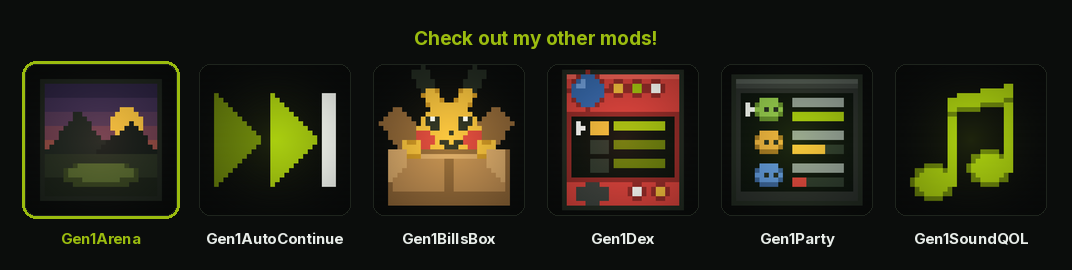
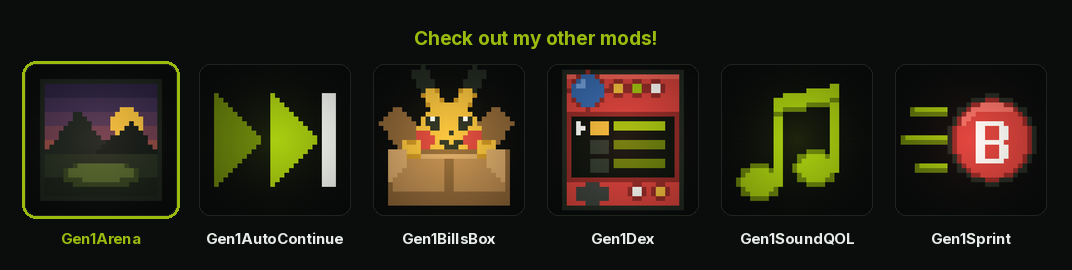
Add Gen1Sprint to the index
Hold B to run at FireRed's running-shoes speed: twice walking, which is
the pace this engine's own BICYCLE already rides at.

The entry, its long-form description.md, a thumbnail and the README row
and lineup strip that go with it.

The icon is the B button with the ground going past it. A running figure
is the obvious drawing and the wrong one -- at 32 pixels a person is six
pixels of leg, and six pixels of leg reads as a smudge however they are
posed. A circle with a letter in it is legible at any size, and it says
the thing the mod actually asks of you. LETTER_B sits next to DIGITS on
the same seven-by-nine metric so the two stay in proportion if they ever
share a picture; the rest of the alphabet would be dead weight.

site/data/index.json is deliberately not in this commit. The feed is
built and committed by .github/workflows/index.yml with a token, and a
rebuild from here answers 403 on every other mod's Releases -- so a
hand-built feed would land with this entry added and twelve mods' real
release data replaced by errors.

Claude-Session: https://claude.ai/code/session_01GSk6gGC43zca2TtZXkUrDf

Changed region(s): [[0.6772, 0.2667, 0.9851, 0.7704], [0.6772, 0.8593, 0.8004, 0.9185], [0.8312, 0.8593, 0.9543, 0.9185]]

diff --git a/tools/make_icons.py b/tools/make_icons.py
@@ -163,6 +163,22 @@ def numerals(art, x, y, text, colour, shadow):
 # set of ten would be nine glyphs of dead weight and one more thing to keep
 # in step with nothing.
 DIGIT_GAP = 2
+
+# The one letter any icon draws, on the same seven-by-nine metric DIGITS uses
+# so the two stay in proportion if they ever share a picture.  A full alphabet
+# would be twenty-five glyphs of dead weight.
+LETTER_B = [
+    "######.",
+    "##...##",
+    "##...##",
+    "##...##",
+    "######.",
+    "##...##",
+    "##...##",
+    "##...##",
+    "######.",
+]
+
 DIGITS = {
     "1": [
         "..####.",
@@ -617,6 +633,39 @@ def gen151():
     return a, PINK
 
 
+def sprint():
+    """The B button, and the ground going past it.
+
+    A running figure is the obvious drawing and the wrong one: at 32 pixels a
+    person is six pixels of leg, and six pixels of leg reads as a smudge no
+    matter how they are posed.  The button does not have that problem -- it is
+    a circle with a letter in it, which is legible at any size -- and it says
+    the thing the mod actually asks of you, which is to hold B.  The streaks
+    behind it carry the speed instead, and they are what a Game Boy would have
+    used too.
+    """
+    a = Art()
+
+    # Three streaks, longest through the middle, each on a darker under-edge
+    # so it has a leading edge against the near-black ground rather than
+    # floating on it.  They stop short of the button: a streak that touches
+    # the rim ties the two shapes into one blob.
+    for x0, y in ((3, 9), (1, 15), (4, 21)):
+        a.rect(x0, y, 10, y + 1, GREEN_D)
+        a.rect(x0 + 1, y, 10, y, GREEN)
+
+    # The button: an ink rim, a red face, and the glyph knocked into it.  The
+    # rim is a whole pixel wider than the face on purpose -- a red disc laid
+    # straight onto the ground has no edge, and the rim is what gives it one.
+    a.disc(20.5, 16, 9.6, INK)
+    a.disc(20.5, 16, 8.6, (0x8f, 0x2a, 0x26))
+    a.disc(20.5, 16, 7.8, RED)
+    a.arc(20.5, 16, 6.4, 7.8, 55, 155, (0xe8, 0x6d, 0x62))   # a lit top-left
+
+    stamp(a, 17, 12, LETTER_B, {"#": WHITE})
+    return a, RED
+
+
 ICONS = {
     "gen1autosave": autosave,
     "gen1_auto_continue": auto_continue,
@@ -630,6 +679,7 @@ ICONS = {
     "gen1_mod_menu": mod_menu,
     "Gen1Party": party,
     "gen151": gen151,
+    "gen1_sprint": sprint,
 }
 
 

diff --git a/mods/Wild@gen1_sprint/description.md b/mods/Wild@gen1_sprint/description.md
@@ -1,0 +1,56 @@
+Hold **B** to run. The same speed FireRed's running shoes give you.
+
+## Twice walking, on a button you were not using
+
+Walking in Gen 1 is 16 frames per tile. FireRed's running shoes halve that to
+8, and that is what holding B does here — from the first step out of your
+bedroom. There is no item to find, no flag to set and nobody to talk to.
+
+Eight frames per tile is not a number picked to feel right. It is a pace this
+engine has drawn since the day it booted, because it is exactly what the
+**BICYCLE** rides at. So the sprint is not a new motion the game has to learn:
+it is the bike's motion, on foot, on a button.
+
+Everything else about a step is untouched. Encounters still roll per step, so
+running does not change how often you meet anything. Ledges, warps, collision,
+Cycling Road, the boulder push and the turn-in-place delay are all vanilla, and
+your follower keeps up on its own.
+
+Nothing else in the overworld reads B, so nothing is being taken away — but if
+you would rather keep it clear, `HOLD` moves the sprint to `SELECT`, which the
+overworld reads nowhere at all.
+
+| Row | Values | Default |
+| --- | --- | --- |
+| `SPRINT` | on / off | on |
+| `HOLD` | `B` / `SELECT` | `B` |
+| `SPRINT SPEED` | `2x` / `1.5x` / `3x` | `2x` |
+| `SPRINT SURFING` | on / off | off |
+| `SPRINT ON BIKE` | on / off | off |
+
+The two `off` rows are the FireRed answer: running shoes are a thing you do on
+foot, so surfing and cycling stay at exactly the speeds they have always been
+until you say otherwise.
+
+## It does not cost you frames
+
+A movement mod is an easy place to make a game stutter, so this one sits on the
+engine's own seam rather than beside it. `Player:stepLength` already asks mods
+how long a step should last, through the `movement.speed` hook — the one whose
+comment reads *"lets a mod multiply or replace that (running shoes, dash,
+etc.)"*. Running shoes is precisely what this is, so nothing is patched,
+overridden or polled.
+
+That seam is a cold path. It runs **once per step**, as the step begins, not
+once per frame: four to eight calls a second while you are moving, and none at
+all while you stand still, sit in a menu or fight a battle. The link allocates
+nothing, and the option rows are read from a snapshot rebuilt only when you
+change one.
+
+`SPRINT: OFF` goes further and unsubscribes the hook outright rather than
+returning early inside it. The engine only builds a context table when some mod
+is listening, so switched off this mod costs precisely what it costs
+uninstalled.
+
+Runs on Red, Blue, Yellow, Gold, Silver and Crystal, and requests no
+permissions.

diff --git a/README.md b/README.md
@@ -8,7 +8,7 @@
 </p>
 
 <p align="center">
-  <a href="https://wild1walker.github.io/Gen1Wild/"><img src="site/banners/lineup.png" alt="Gen151, Gen1Arena, Gen1AutoContinue, Gen1AutoSave, Gen1BillsBox, Gen1Dex, Gen1Follower, Gen1MenuManager, Gen1ModMenu, Gen1ModernBag, Gen1Party and Gen1SoundQOL" width="920"></a>
+  <a href="https://wild1walker.github.io/Gen1Wild/"><img src="site/banners/lineup.png" alt="Gen151, Gen1Arena, Gen1AutoContinue, Gen1AutoSave, Gen1BillsBox, Gen1Dex, Gen1Follower, Gen1MenuManager, Gen1ModMenu, Gen1ModernBag, Gen1Party, Gen1SoundQOL and Gen1Sprint" width="920"></a>
 </p>
 
 ## What is in the index
@@ -27,6 +27,7 @@
 | <img src="mods/Wild@gen1_modern_bag/thumbnail.png" width="54" alt=""> | **[Gen1ModernBag](https://github.com/wild1walker/Gen1ModernBag)** | Seven inventory pockets with auto-sorting, Favorites, pinned items, quick search, TM/HM tools and no capacity limit. Derived from FAFF0x's Modern Bag. |
 | <img src="mods/Wild@Gen1Party/thumbnail.png" width="54" alt=""> | **[Gen1Party](https://github.com/wild1walker/Gen1Party)** | The party menu with every POKéMON in its own species colours instead of all six sharing one, and the status and HP numbers pulled in off the screen edge. |
 | <img src="mods/Wild@gen1_sound_qol/thumbnail.png" width="54" alt=""> | **[Gen1SoundQOL](https://github.com/wild1walker/Gen1SoundQOL)** | The low-HP battle siren beeps once instead of looping forever, and on mobile the game mutes itself when another app takes the audio. |
+| <img src="mods/Wild@gen1_sprint/thumbnail.png" width="54" alt=""> | **[Gen1Sprint](https://github.com/wild1walker/Gen1Sprint)** | Hold B to run at FireRed's running-shoes speed: twice walking pace, which is what this engine's own BICYCLE already rides at. |
 
 Every icon above is the one the card carries in **FIND MODS**, drawn by
 [`tools/make_icons.py`](tools/make_icons.py). No mod is vendored here: each
